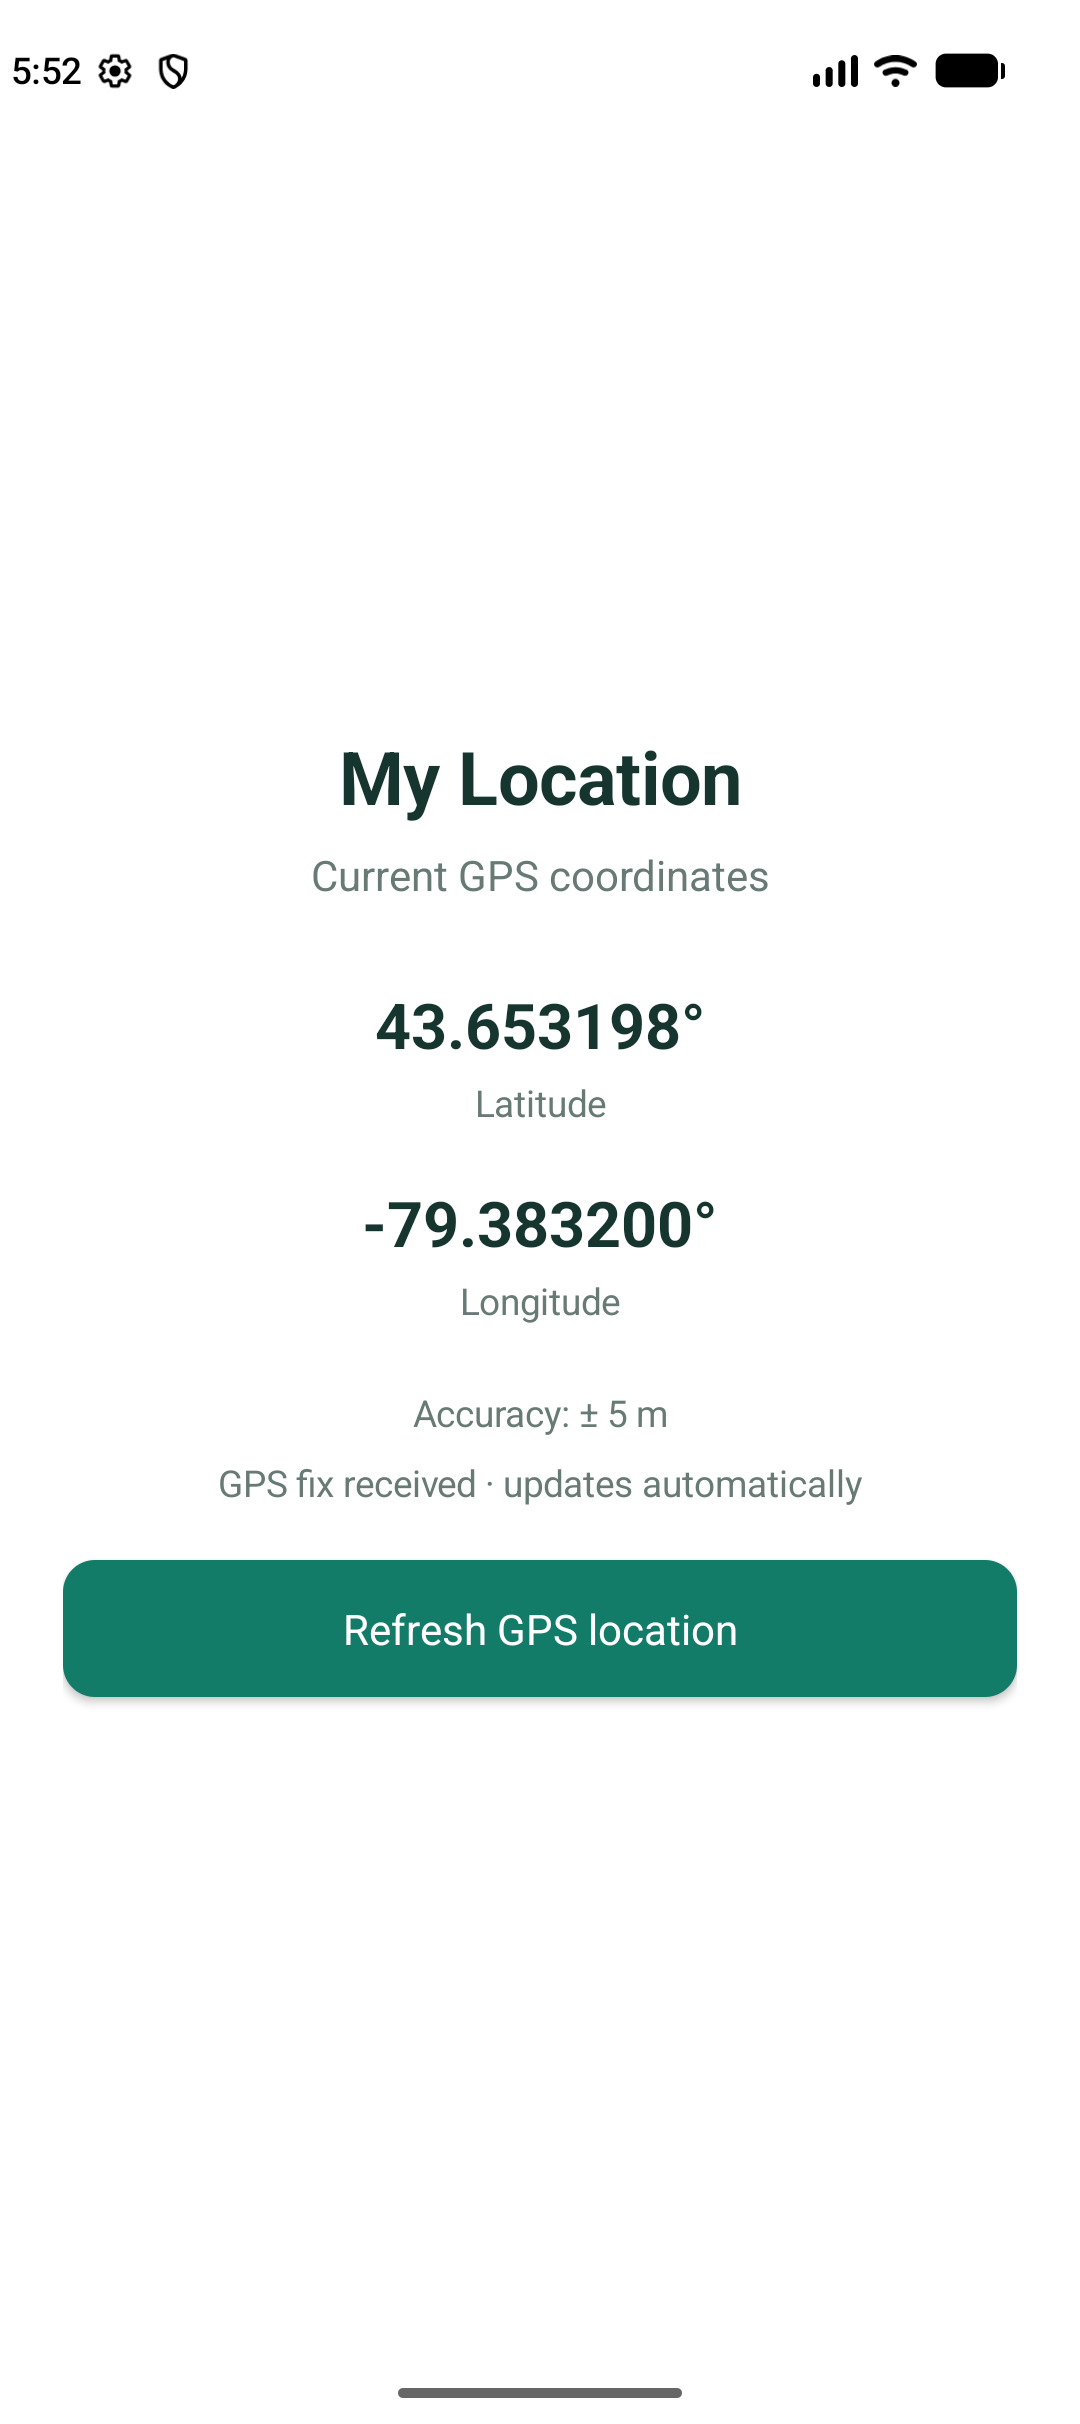
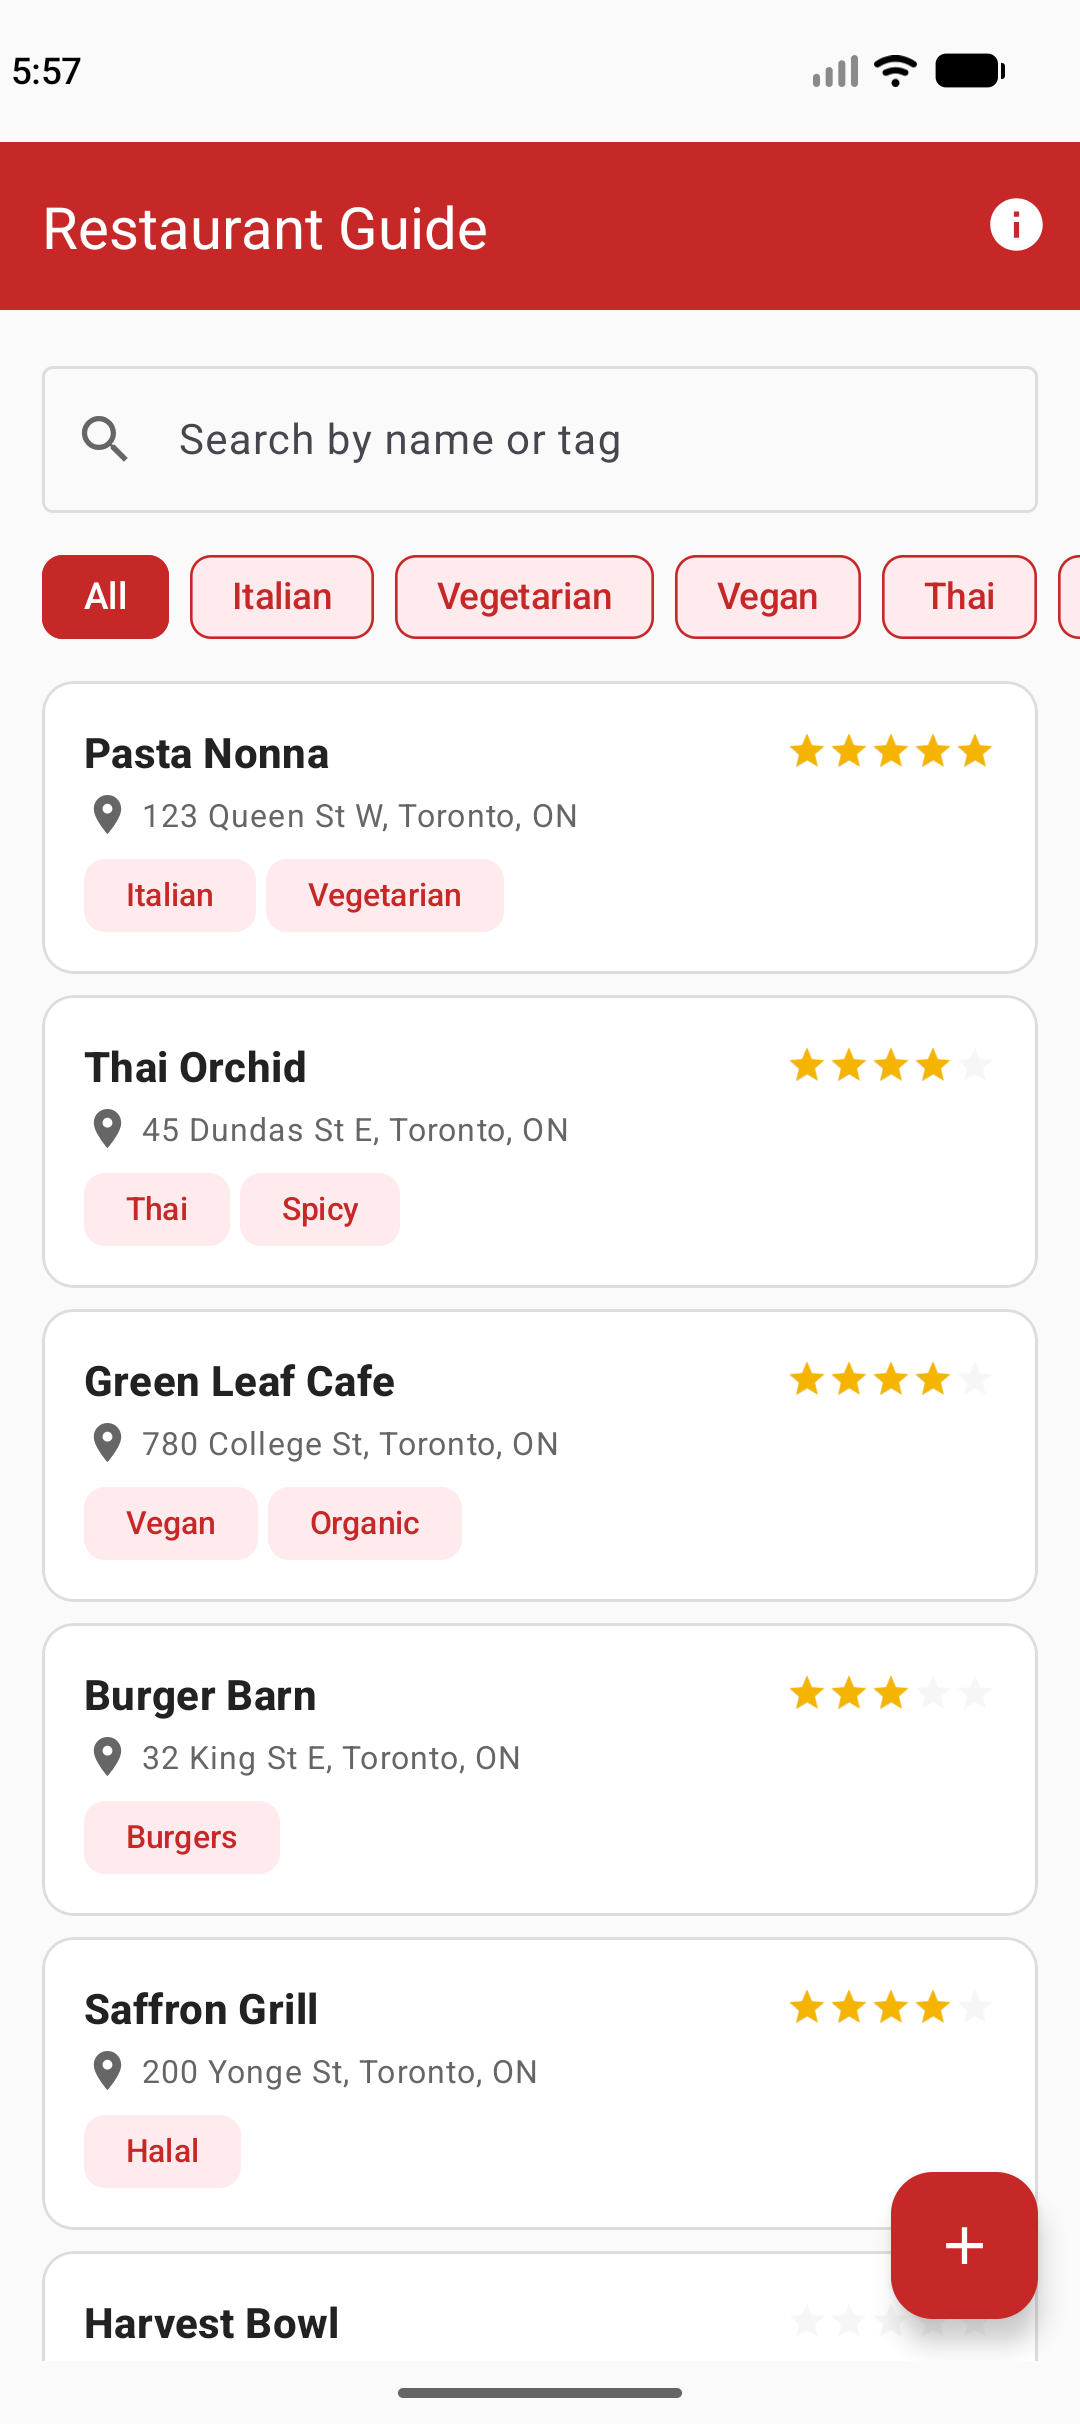
Use requested Android package name

diff --git a/app/src/main/java/ca/rasuldadashbayli/MainActivity.java b/app/src/main/java/ca/rasuldadashbayli/MainActivity.java
@@ -1,4 +1,4 @@
-package com.example.gpscoordinate;
+package ca.rasuldadashbayli;
 
 import android.Manifest;
 import android.app.Activity;
@@ -137,6 +137,7 @@ public class MainActivity extends Activity {
     private LinearLayout.LayoutParams params(int w,int h) { return new LinearLayout.LayoutParams(w,h); }
     private int dp(int n) { return (int)(n*getResources().getDisplayMetrics().density+0.5f); }
 }
+
 
 
 
